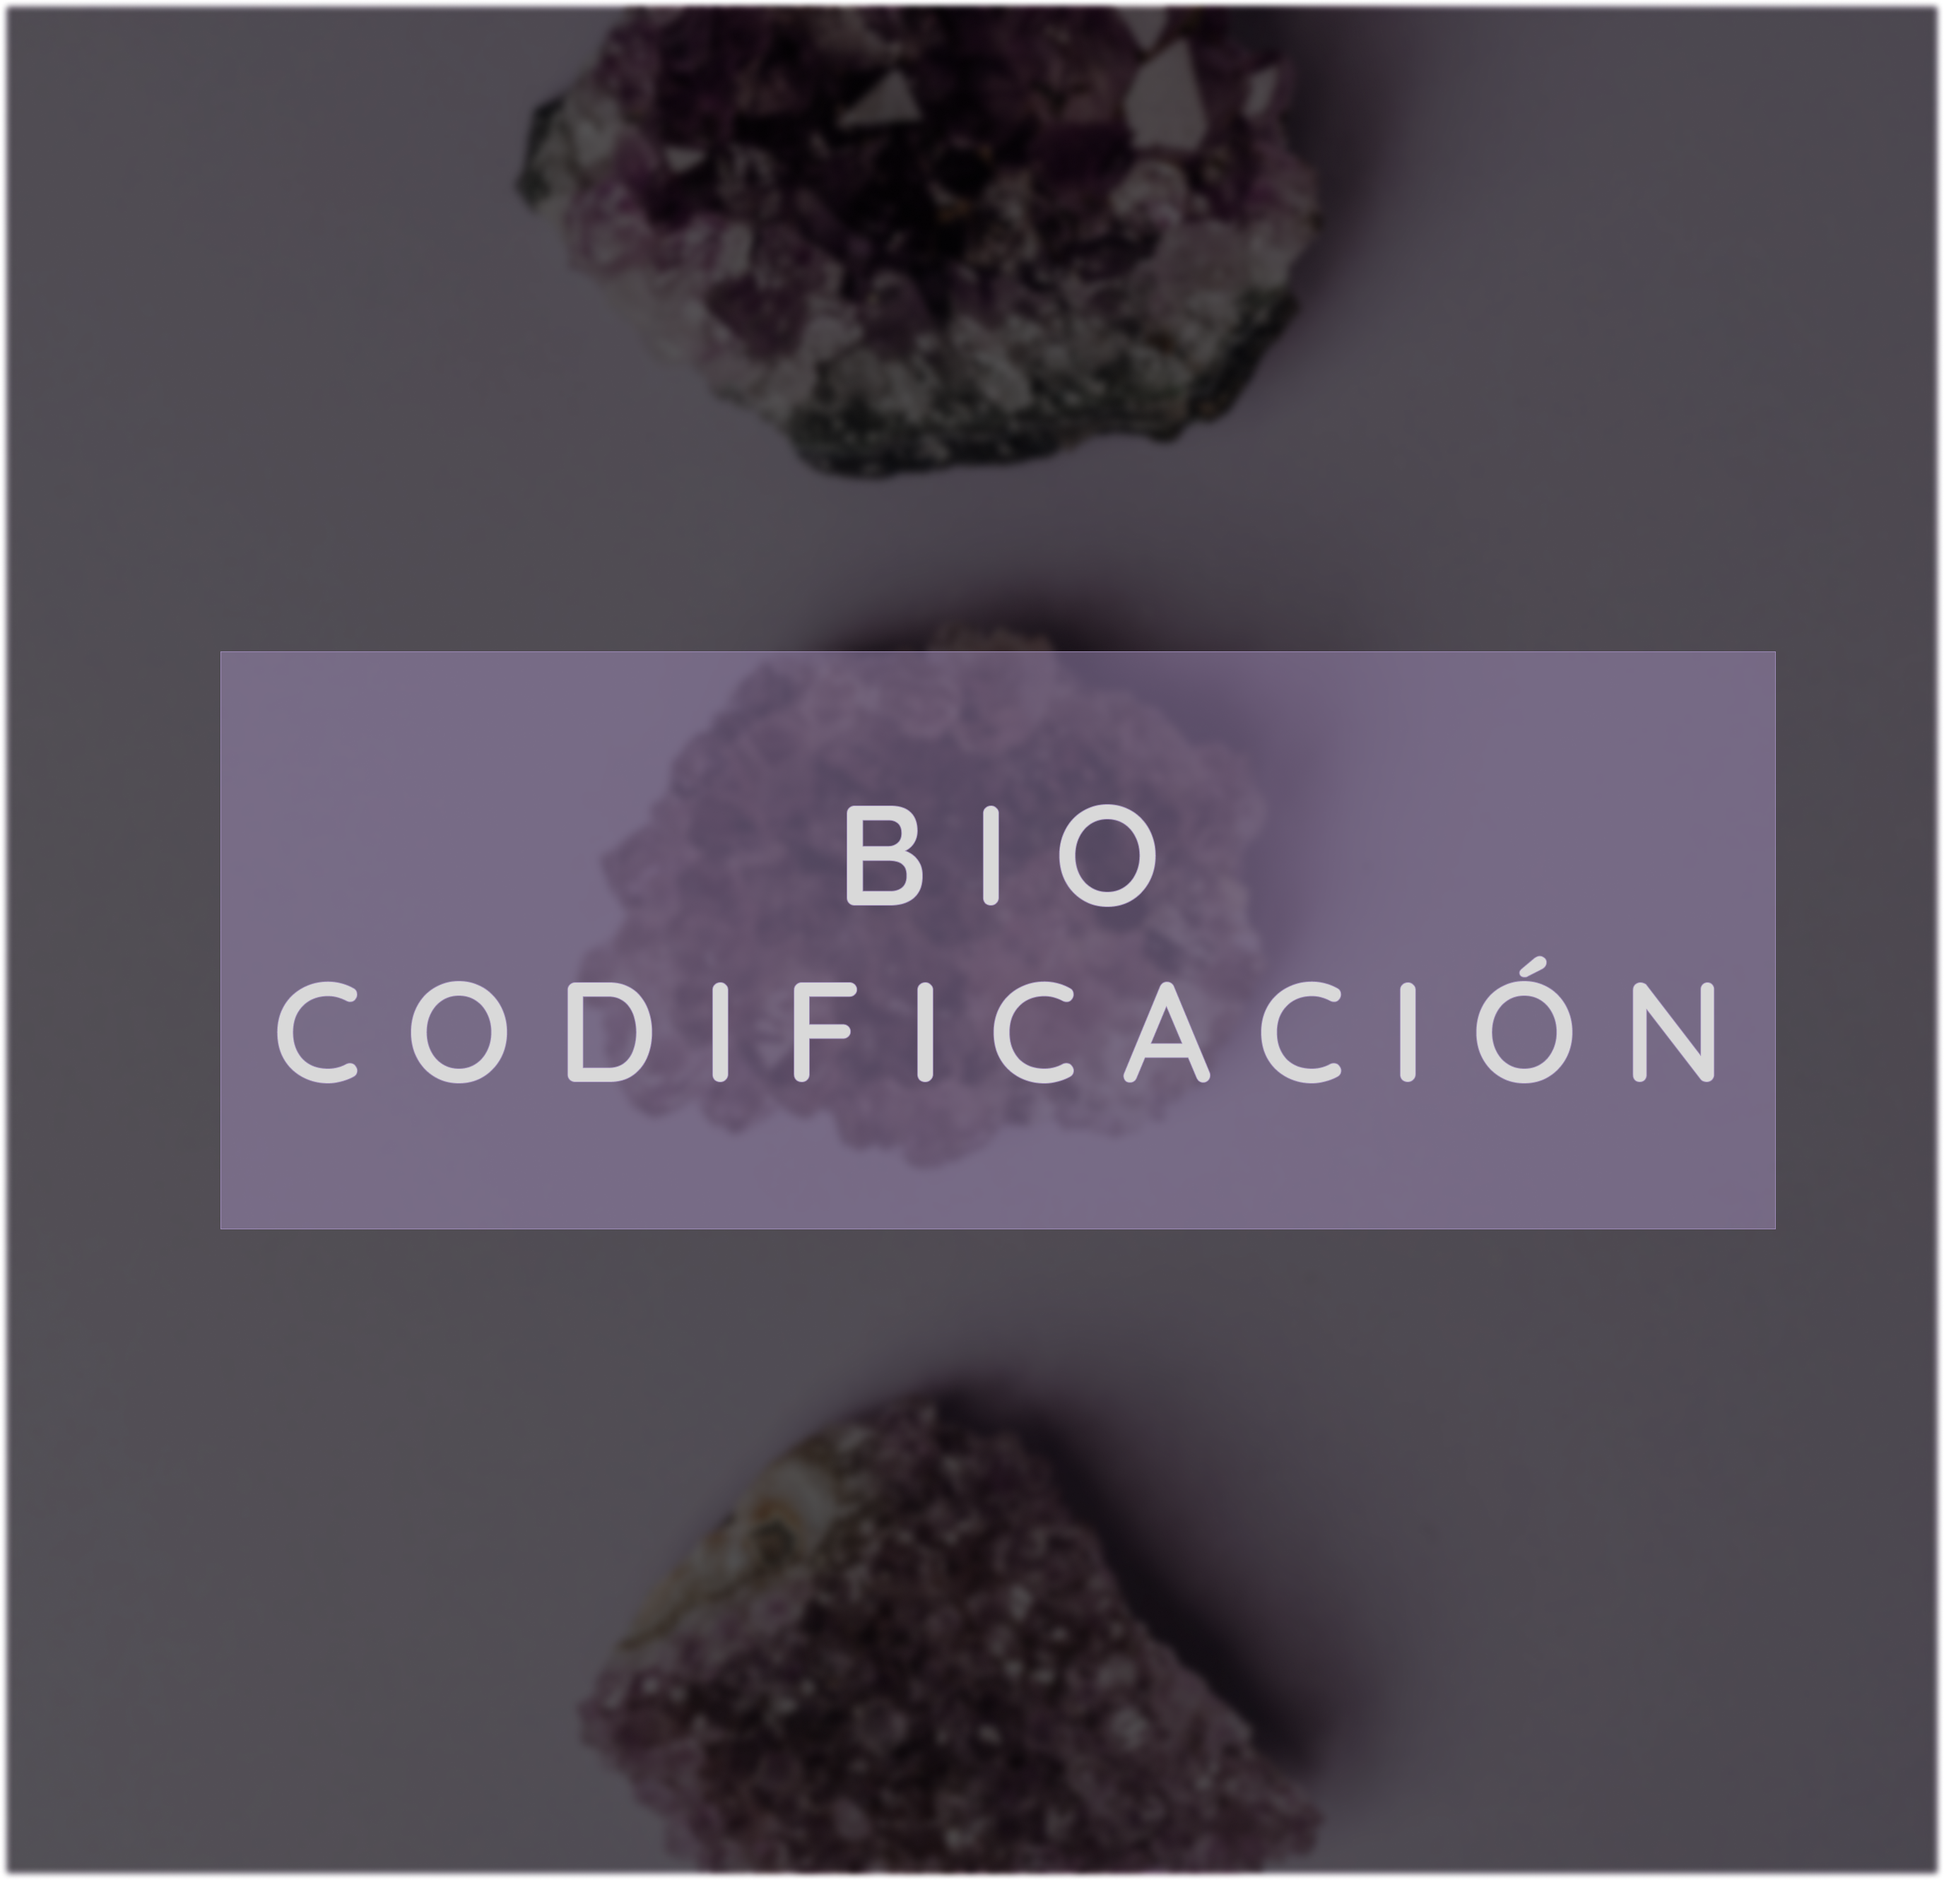
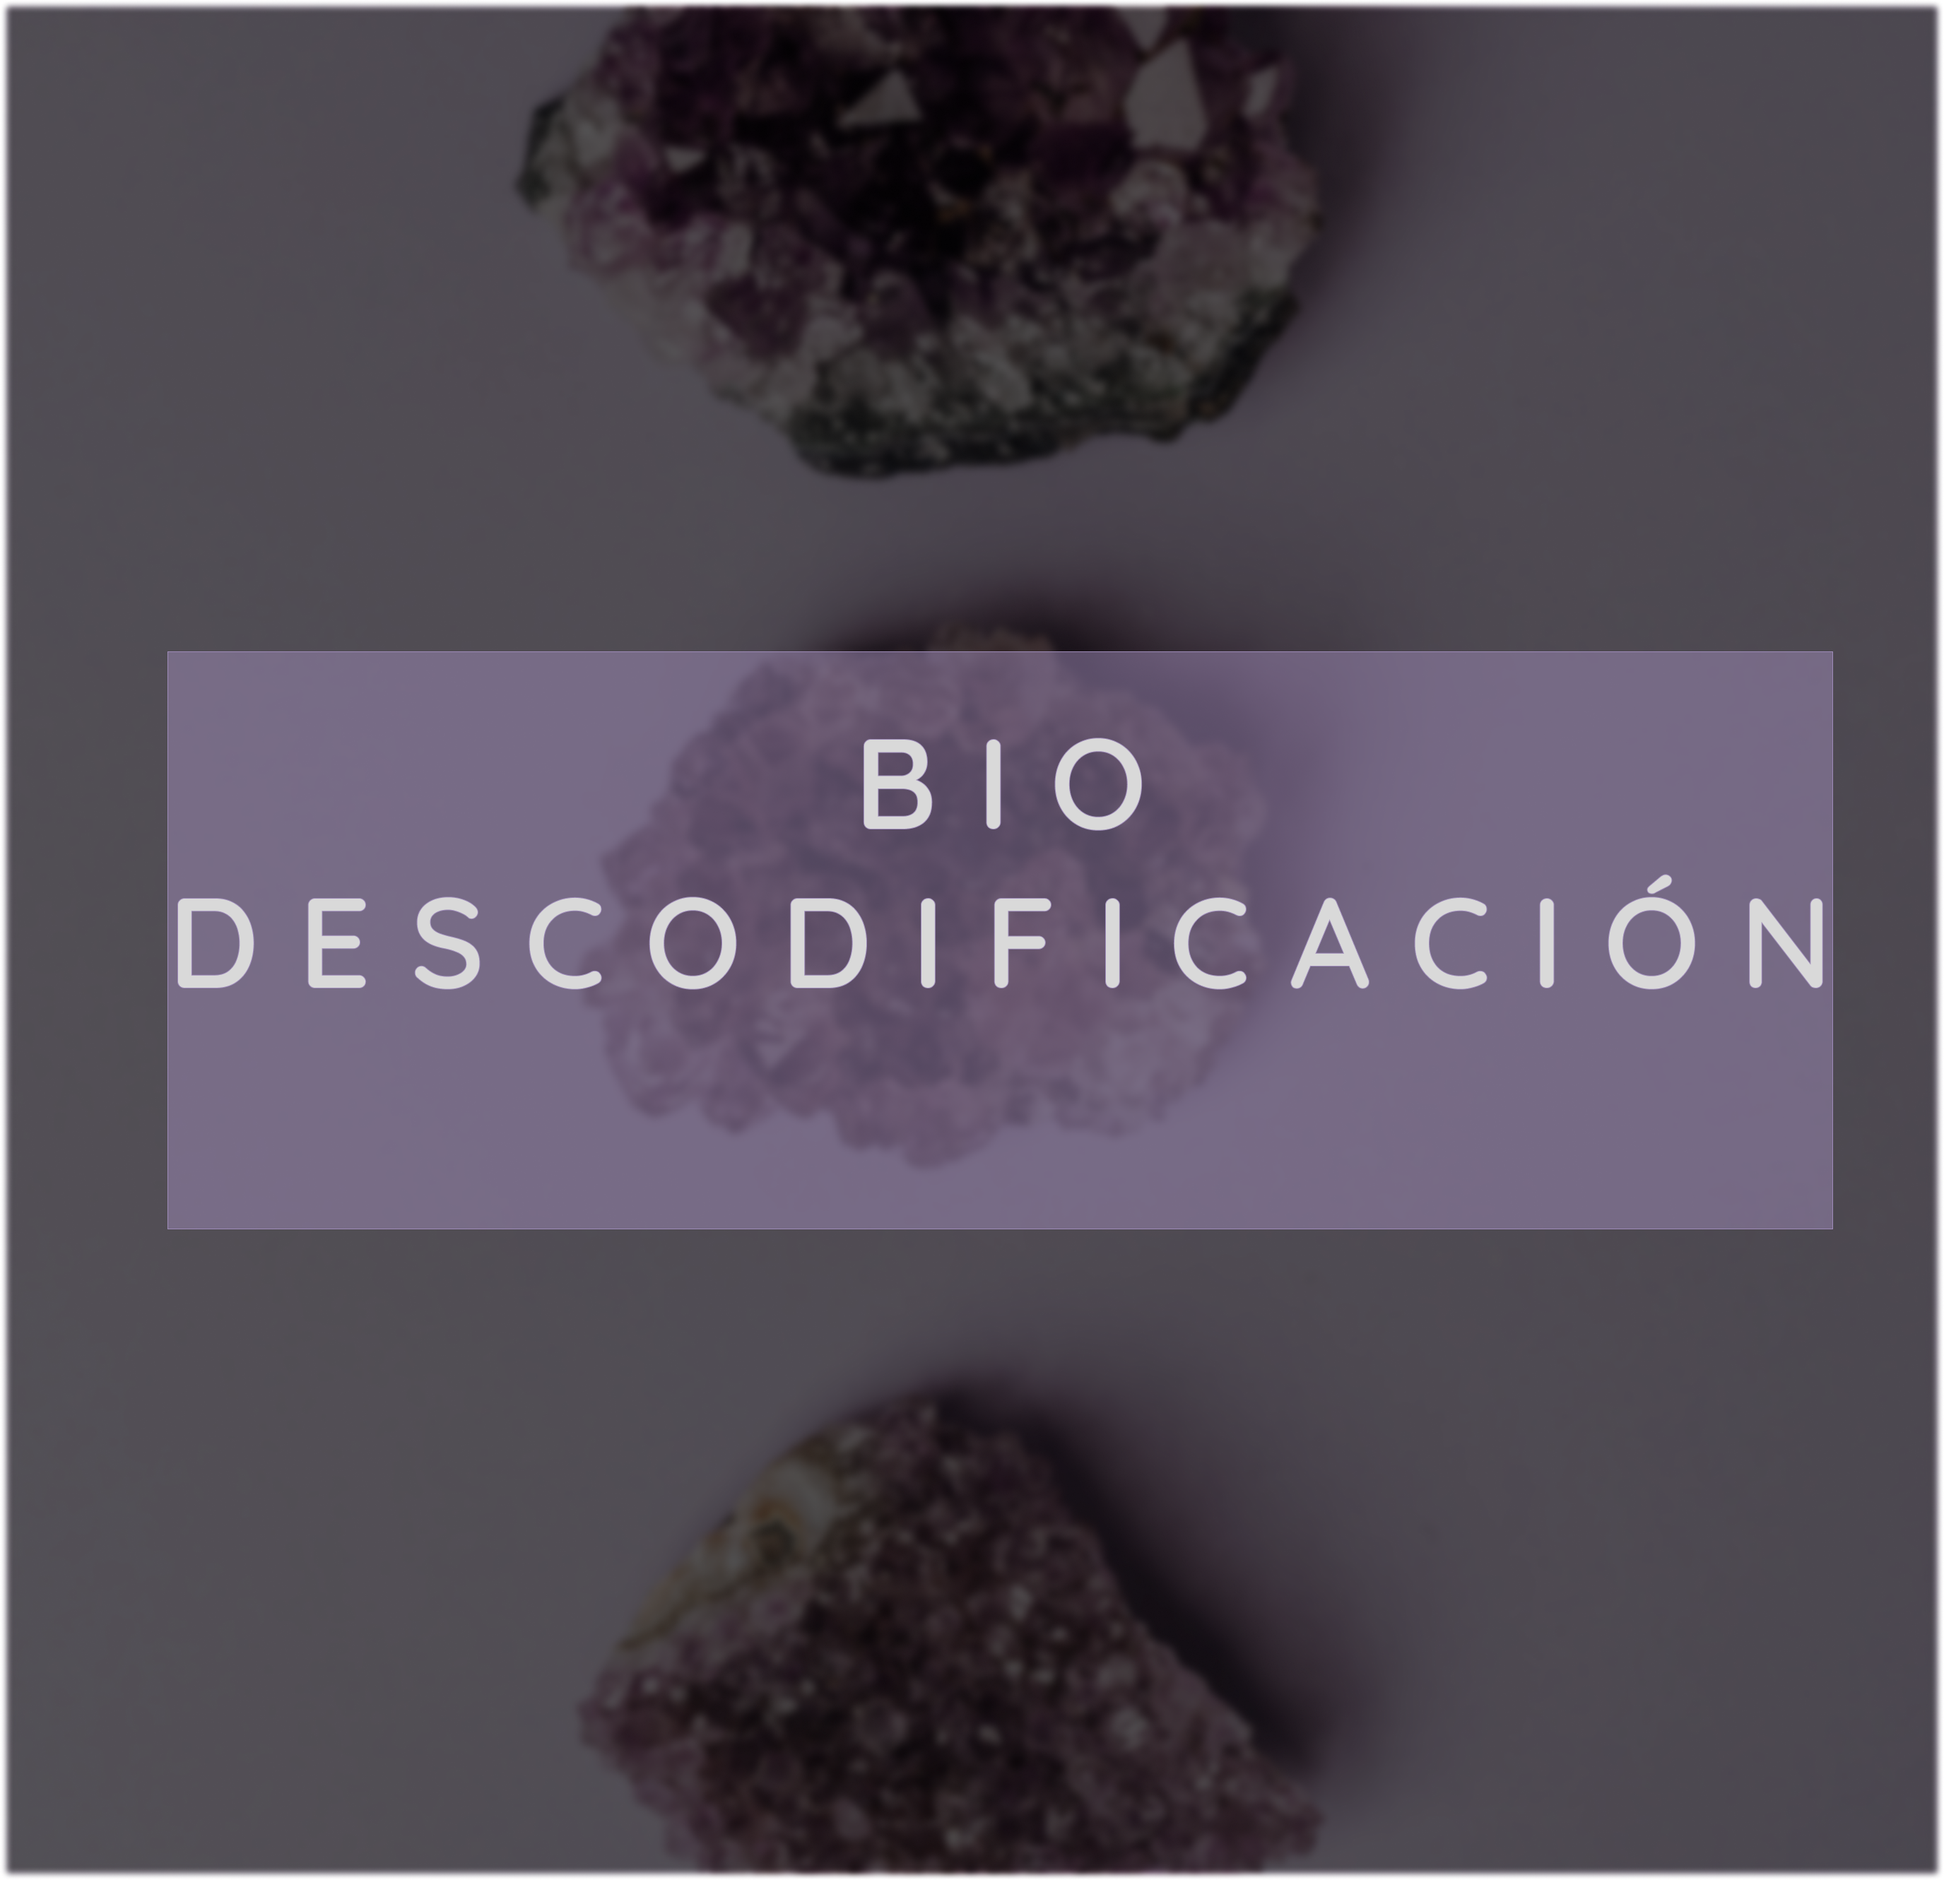
arreglos

Changed region(s): [[0.1854, 0.3431, 0.9578, 0.655], [0.0618, 0.3431, 0.1854, 0.655], [0.1545, 0.5614, 0.1854, 0.5926]]

diff --git a/pendulo.html b/pendulo.html
@@ -59,13 +59,19 @@
             </div>
         </nav>
     </header>
-    <h1>¿Que es el pendulo hebreo?</h1>
-    <p>Lorem ipsum dolor sit amet consectetur, adipisicing elit. Iure fuga ea molestias aliquid in sequi rerum quibusdam, dolores, cupiditate soluta, doloremque temporibus atque a id ullam officiis quis ipsum praesentium! Lorem ipsum dolor sit amet consectetur adipisicing elit. Ipsum sapiente commodi deserunt? Officia porro adipisci, quae quis, doloribus, perferendis beatae neque molestiae saepe illo dolorem enim aut? Molestiae, accusantium quasi! Lorem, ipsum dolor sit amet consectetur adipisicing elit. Commodi ratione ducimus eum nemo atque laborum optio voluptatum obcaecati in itaque ullam, ut tempore est natus tenetur vel esse numquam excepturi.</p>
+
+<div>
+    <h1>¿Qué es el péndulo hebreo?</h1>
+    <p>Es un método de sanación y transformación de la energía, temas cruciales de la vida de una persona. Algo no resuelto que condiciona a la persona. 
+        Es un método no sólo una técnica, su nombre en hebreo es "metulet", es el  vehículo con el se irradia la energía que contienen las tarjetas escritas en hebreo, ya que cada letra del alfabeto hebreo existe en forma ignea, en dimensiones superiores y es un lenguaje de luz. El péndulo hebreo tiene su origen en la emisión de energía. Es también un instrumento espiritual para integrar energías cósmicas. Estás energías nos ordenan hacía valores superiores. Se irradia energía a los chakras que se encuentran conectados entre sí luego del diagnóstico realizado. <br> <br>
+        
+        <b>Paleohebreo:</b> al igual que péndulo hebreo trabaja en favor de sanación de nuestro espíritu y nuestra alma. Cada letra entra en nuestra estrella de David. La zona geometrica de nuestra alma (geometría sagrada). El alma tiene dos pilares estos pilares son nuestra parte física y el yo superior. Se compone de 22 letras que en el idioma antiguo se usó con el arameo y se combina con las letras hebreas y el péndulo. Es la unión de péndulo hebreo y paleohebreo junto a Metatrón ( código de acceso a nuestro yo súper) . Son combinaciones para irradiar y mejorar nuestro interior y nuestra parte física.
+        </p>
 
 
-    <button>Reservá tu sesion</button>
+        <button><a href="sesiones.html" class="btn-boton-reserva">Reservá tu sesion</a></button>
 
-
+</div>
 
     <footer class="pie-pagina">
         <div class="container-fluid text-center text-md-start footer">

diff --git a/redes.html b/redes.html
@@ -60,11 +60,13 @@
         </nav>
         
     </header>
-    <h1>¿Que son las Redes energéticas y chakras?</h1>
-    <p>Lorem ipsum dolor sit amet consectetur, adipisicing elit. Iure fuga ea molestias aliquid in sequi rerum quibusdam, dolores, cupiditate soluta, doloremque temporibus atque a id ullam officiis quis ipsum praesentium! Lorem ipsum dolor sit amet consectetur adipisicing elit. Ipsum sapiente commodi deserunt? Officia porro adipisci, quae quis, doloribus, perferendis beatae neque molestiae saepe illo dolorem enim aut? Molestiae, accusantium quasi! Lorem, ipsum dolor sit amet consectetur adipisicing elit. Commodi ratione ducimus eum nemo atque laborum optio voluptatum obcaecati in itaque ullam, ut tempore est natus tenetur vel esse numquam excepturi.</p>
 
-    <button>Reservá tu sesion</button>
+    <div>
+    <h1>¿Qué son las Redes energéticas y chakras?</h1>
+    <p>En nuestro cuerpo se consideran 52 puntos energéticos: 26 en nuestra espalda y 26 en la parte anterior de nuestra cuerpo; no están separados aunque se subordinan unos a otros,  todo lo que hemos acumulado a través de generación anteriores y que no ha sido resuelto y podemos llegar a repetir. Se trabaja cada punto específico, por ejemplo el karma, liberación de traumas, poder soltar aquello que acumulamos y sanar todo lo que cargamos sobre nuestros hombros, es decir. soltar todo el peso de lo pasado en nuestra familia ancestral y que puede llegar  a enfermarnos. </p>
 
+    <button><a href="sesiones.html" class="btn-boton-reserva">Reservá tu sesion</a></button>
+    </div>
 
     <footer class="pie-pagina">
         <div class="container-fluid text-center text-md-start footer">

diff --git a/numerologia.html b/numerologia.html
@@ -62,11 +62,14 @@
         
     </header>
 
-
-    <h1>¿Que es la numerologia?</h1>
-    <p></p>
-                  <button>Reservá tu sesion</button>
-
+    <div>
+        <h1>¿Qué es la numerologia?</h1>
+        <p>Cuando decidimos volver a la tierra, a otra vida, tenemos ideas precisas del proyecto que queremos llevar a cabo para cumplir con nuestro proceso evolutivo.
+        Siempre nos preguntamos quiénes somos, de dónde venimos, y hacia dónde vamos. Son tres preguntas esenciales de nuestra vida. Para descubrir el ser único que somos utilizamos como herramienta la fecha de nuestro nacimiento así como las letras que componen nuestra identidad. Aprendemos a conocernos mejor, hemos venido a aprender, es un método que estudia el proceso por el cual hemos pasado, estamos pasando y nos ayuda a seguir nuestro camino espiritual evolutivo continuamente. La numerología nos permite una orientación: porque somos, como somos, porque reaccionamos de tal manera, y como nos relacionamos.
+        </p>
+    
+        <button><a href="sesiones.html" class="btn-boton-reserva">Reservá tu sesion</a></button>
+    </div>
                   <footer class="pie-pagina">
                     <div class="container-fluid text-center text-md-start footer">
                        <div class="row text-center text-md-start seccion-1">

diff --git a/armonizacion.html b/armonizacion.html
@@ -60,13 +60,16 @@
         </nav>
         
     </header>
-    <h1>Armonización de ambientes y chakras</h1>
+    
+    <div>
+    <h1>¿Qué es la armonización de ambientes y chakras?</h1>
+
+    <p>Limpieza energética de espacios y del hogar esencial para mantener un ambiente saludable. Una casa es una prolongación y extensión de sus habitantes, suele reflejar la energía de quienes la habitan o de quienes la visitan. Aplicando el protocolo de armonización podremos determinar que necesita nuestro hogar. Por ejemplo “hay mala onda” en el aire, “no se puede dormir”,etc. Por lo cual es que debemos limpiar de manera profunda y llenar el hogar de buenas energías.</p>
+    <button><a href="sesiones.html" class="btn-boton-reserva">Reservá tu sesion</a></button>
+   </div>
     
    
     
-   
-        
-    <button class="boton-productos">Ver mas</button>
 
     <footer class="pie-pagina">
         <div class="container-fluid text-center text-md-start footer">

diff --git a/sesiones.html b/sesiones.html
@@ -136,7 +136,7 @@
       <div class="card bg-transparent border-light mb-3" style="width: 30rem;">
         <img src="./imagenes/card6.png" class="card-img-top" alt="card-bio">
         <div class="card-body">
-          <h5 class="card-title">Biocodificacion</h5>
+          <h5 class="card-title">Biodescodificación</h5>
           <p class="card-text">This card has supporting text below as a natural lead-in to additional content.</p>
           
         </div>

diff --git a/css/style.css b/css/style.css
@@ -435,6 +435,12 @@ font-size: 0.75rem;
     margin-bottom: 200px;
 }
 
+/*fin de sesiones*/
+
+/*Numerologia, redes, armonizacion, pendulo*/
+
+
+/*Fin de Numerologia, redes, armonizacion, pendulo*/
 
 
 /*media queries*/
